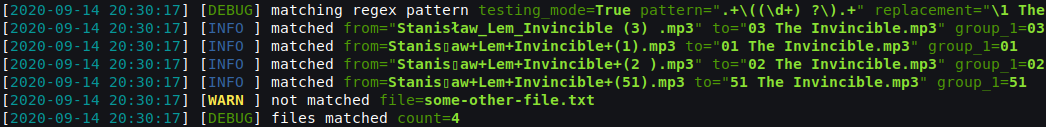
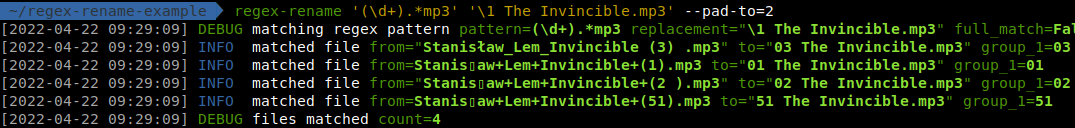
Update example screens

diff --git a/README.md b/README.md
@@ -9,17 +9,17 @@ Bulk rename tool based on regular expressions to rename multiple files at once.
 # Quickstart
 Renaming multiple files at once:
 ```shell
-$ ls
-01-q45XDS.mp3  02-QsEW2s.mp3  03-VF7t6L.mp3
+$ ls # awful names:
+b45XDS-01.mp3  QsEW2s-02.mp3  VF7t6L-03.mp3
 
-$ regex-rename '(\d+).*.mp3' '\1_NeverGonnaGiveYouUp.mp3' --rename
-[2022-04-09 18:58:30] DEBUG matching regex pattern pattern=(\d+).*.mp3 replacement=\1_NeverGonnaGiveYouUp.mp3 full_match=False padding=None testing_mode=False
-[2022-04-09 18:58:30] INFO  renaming file from=01-q45XDS.mp3 to=01_NeverGonnaGiveYouUp.mp3
-[2022-04-09 18:58:30] INFO  renaming file from=02-QsEW2s.mp3 to=02_NeverGonnaGiveYouUp.mp3
-[2022-04-09 18:58:30] INFO  renaming file from=03-VF7t6L.mp3 to=03_NeverGonnaGiveYouUp.mp3
-[2022-04-09 18:58:30] INFO  files renamed count=3
+$ regex-rename '-(\d+).mp3' '\1_NeverGonnaGiveYouUp.mp3' --rename                                                                              ✔  venv
+[2022-04-09 09:19:15] DEBUG matching regex pattern pattern=-(\d+).mp3 replacement=\1_NeverGonnaGiveYouUp.mp3 full_match=False padding=None testing_mode=False
+[2022-04-09 09:19:15] INFO  renaming file from=QsEW2s-02.mp3 to=02_NeverGonnaGiveYouUp.mp3
+[2022-04-09 09:19:15] INFO  renaming file from=VF7t6L-03.mp3 to=03_NeverGonnaGiveYouUp.mp3
+[2022-04-09 09:19:15] INFO  renaming file from=b45XDS-01.mp3 to=01_NeverGonnaGiveYouUp.mp3
+[2022-04-09 09:19:15] INFO  files renamed count=3
 
-$ ls
+$ ls # now we're talking:
 01_NeverGonnaGiveYouUp.mp3  02_NeverGonnaGiveYouUp.mp3  03_NeverGonnaGiveYouUp.mp3
 ```
 
@@ -39,29 +39,41 @@ Imagine you've got audio files awfully named like this:
 - ...
 - `Stanis▯aw+Lem+Invincible+(51).mp3`
 
-and you want to rename all of them in a manner `01 The Invincible.mp3` 
-(extracting number from the end and put it at the beginning and padding it to 2 digits by the way).
+and you want to rename all of them in a manner:
+`01 The Invincible.mp3`, `02 The Invincible.mp3`, …
+(specifically to extract the number, put it at the beginning,
+and apply 2-digits padding to it).
 
-## Step 1: Testing matching pattern 
+## Step 1: Check the matching pattern 
 
-The Regex pattern to match those files and extract number from parentheses should be like this: `.+\((\d+) ?\).+`
+The Regex pattern to match these files and 
+extract episode number from parentheses may be as follows: 
+`(\d+).*mp3` 
+(contains number, ends with `mp3`)
 
-Let's test matching pattern: `regex-rename '.+\((\d+) ?\).+'`  
-![Usage example](https://github.com/igrek51/regex-rename/blob/master/docs/img/screen-1.png?raw=true)    
-Notice that regex groups are extracted in logs.
+Let's check if the files are matched properly: `regex-rename '(\d+).*mp3'`  
+![Usage example](https://github.com/igrek51/regex-rename/blob/master/docs/img/screen-1.png?raw=true)
 
-## Step 2: Testing replacement pattern
+Pay attention to the extracted regex groups.
 
-We'd like to replace all files to a pattern: `\1 The Invincible.mp3` (`\1` is a first extracted group from matching pattern).
-Regex can't easily pad numbers with zeros. Fortunately, we can use `--pad-to=2` to obtain 2-digit numbers
+## Step 2: Check the replacement pattern
 
-Let's test it: `regex-rename '.+\((\d+) ?\).+' '\1 The Invincible.mp3' --pad-to=2`  
+We'd like to replace all files to a pattern: 
+`\1 The Invincible.mp3` 
+(`\1` is a first extracted group from matching pattern).
+
+Regex can't easily pad numbers with zeros. 
+Fortunately, we can use `--pad-to=2` parameter to obtain 2-digit numbers.
+
+Let's test it: `regex-rename '(\d+).*mp3' '\1 The Invincible.mp3' --pad-to=2`  
 ![Usage example](https://github.com/igrek51/regex-rename/blob/master/docs/img/screen-2.png?raw=true)  
 
 ## Step 3: Actual renaming
 
-All above commands were just testing our patterns so that we could experiment with regex patterns. Only when we're sure that everything is matched correctly, we can use `--rename` flag which does the actual renaming:  
-`regex-rename '.+\((\d+) ?\).+' '\1 The Invincible.mp3' --pad-to=2 --rename`  
+All above commands were just testing our patterns so that we could experiment with regex patterns. 
+Once we're sure that everything is matched correctly, we can use `--rename` flag, 
+which does the actual renaming:  
+`regex-rename '(\d+).*mp3' '\1 The Invincible.mp3' --pad-to=2 --rename`  
 ![Usage example](https://github.com/igrek51/regex-rename/blob/master/docs/img/screen-3.png?raw=true)  
 
 Finally, files are named properly:
@@ -70,6 +82,18 @@ Finally, files are named properly:
 - `03 The Invincible.mp3`
 - ...
 - `51 The Invincible.mp3`
+
+# Beyond the Regex
+`regex-rename` also supports some transformations not covered by regular expressions standard:
+- Converting to lowercase by adding `\L` before group number:  
+`regex-rename '([A-Z]+).mp3' '\L\1.mp3'`  
+eg. `AUDIO.mp3` to `audio.mp3`
+- Converting to uppercase by adding `\U` before group number:  
+`regex-rename '([a-z]+).mp3' '\U\1.mp3'`  
+eg. `audio.mp3` to `AUDIO.mp3`
+- Padding numbers with zeros by specifying `--pad-to` parameter:  
+`regex-rename '(\d+).mp3' '\1.mp3' --pad-to=2`  
+eg. `1.mp3` to `01.mp3`
 
 # Usage
 enter `regex-rename` for help:
@@ -92,12 +116,3 @@ Options:
   --full                      - Enforces matching full filename against pattern
   --pad-to PAD_TO             - Applies padding with zeros with given length on matched numerical groups
 ```
-
-# Beyond the Regex
-`regex-rename` also supports some transformations not covered by regular expressions standard:
-- Converting to lowercase by adding `\L` before group number:  
-`regex-rename '([A-Z]+).mp3' '\L\1.mp3'`
-- Converting to uppercase by adding `\U` before group number:  
-`regex-rename '([a-z]+).mp3' '\U\1.mp3'`
-- Padding numbers with zeros by specifying `--pad-to` parameter:  
-`regex-rename '(\d+).mp3' '\1.mp3' --pad-to=2`
